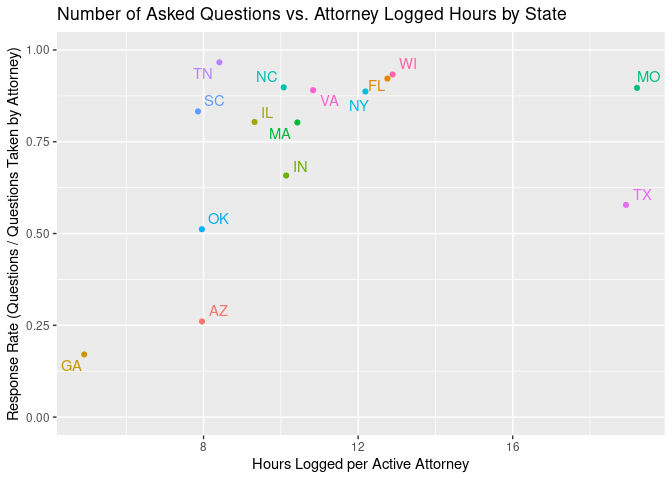
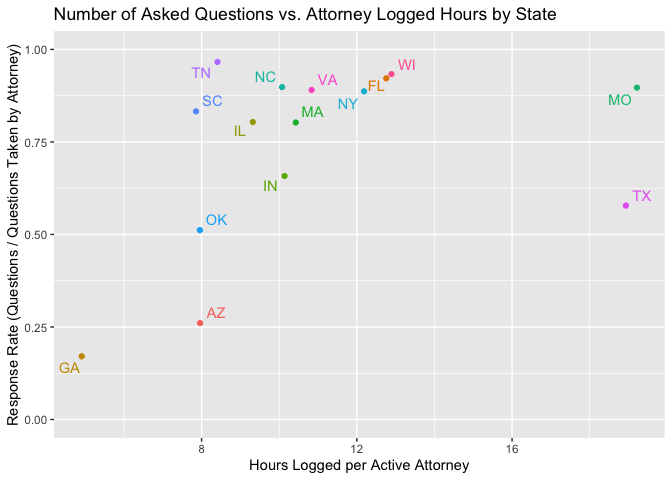
add knitted report

diff --git a/Report.md b/Report.md
@@ -1,31 +1,39 @@
 Disparities in Response Rates: An Investigation
 ================
 Brooke Moss, Lily Jiang, Anna Letcher Hartman, Bethany Costello
-2023-05-01
+2023-05-07
 
-- <a href="#background" id="toc-background">Background</a>
-  - <a href="#the-dataset" id="toc-the-dataset">The Dataset</a>
-  - <a href="#methodology" id="toc-methodology">Methodology</a>
-  - <a href="#our-question" id="toc-our-question">Our Question</a>
-- <a href="#investigation" id="toc-investigation">Investigation</a>
-  - <a href="#questions-v-attorneys-and-hours"
-    id="toc-questions-v-attorneys-and-hours">Questions v. Attorneys and
-    Hours</a>
-  - <a href="#outside-factors" id="toc-outside-factors">Outside Factors</a>
-  - <a href="#web-accessibility" id="toc-web-accessibility">Web
-    Accessibility</a>
-- <a href="#recommendations" id="toc-recommendations">Recommendations</a>
-- <a href="#references" id="toc-references">References</a>
+- [Background](#background)
+  - [The Dataset](#the-dataset)
+  - [Methodology](#methodology)
+  - [Our Question](#our-question)
+- [Investigation](#investigation)
+  - [Questions v. Attorneys and Hours](#questions-v-attorneys-and-hours)
+  - [Outside Factors](#outside-factors)
+  - [Web Accessibility](#web-accessibility)
+- [Recommendations](#recommendations)
+- [References](#references)
 
 ## Background
 
 ### The Dataset
 
 During DataFest 2023, we were given datasets representing the American
-Bar Association’s Free Legal Answer Program (ABA FLA).
+Bar Association’s Free Legal Answers program (ABA FLA). The Free Legal
+Answers program is an online platform where the ABA provides pro bono
+(free of charge) legal services to most US states. Qualifying people
+(based on income thresholds) can submit questions to be researched and
+answered by volunteer lawyers \[DataFest Challenge Description\].
 
-<!--# Add additional dataset background -->
-<!--# Add discussion of dataset trust -->
+The data we received represents a full history of the program from
+August 2016 to January 2022, including client information, attorney
+information, correspondence details, and conversation text. The dataset
+appears to be completely comprehensive as it contains all questions
+asked through the online FLA program. However, because some of the
+variables (such as the hours logged by each attorney) are reliant on
+self-reporting measures, parts of the dataset are not particularly
+trustworthy. These variables contain variation that is impossible to
+account for.
 
 ### Methodology
 
@@ -35,27 +43,87 @@ users can submit legal questions, which are then “accepted” by an
 attorney. The attorney researches the question and communicates back and
 forth with the user to answer.
 
-We determined that if an attorney “accepted” a question, taking it into
-their purview, we would count that as a question that has been responded
+We determined that if an attorney “accepted” a question (taking it into
+their purview) we would count that as a question that has been responded
 to. However, if no attorney accepted the question, we would count that
 as a non-response.
 
 In order to count responses, we used the `TakenByAttorneyUno` variable
 from the `questions.csv` dataset. This variable represents the unique
-identifier of the attorney that accepted the question. If the column
-value was `NULL`, we counted that as a non-response. This is surely an
-under-counting of questions that were unresolved, as this column
-indicates whether or not an attorney responded to the original question.
-This fails to account for non-response cases in which a conversation
-occurs between client and attorney before an attorney stops responding
-or questions left unresolved.
-
-<!--# Add more discussion of potential causes of uncertainty in the data and our calculations -->
+identifier of the attorney that accepted the question. If no attorney
+accepted it, then the column value was `NULL` and we counted it as a
+non-response. This is surely an under-counting of questions that were
+unresolved, as this column only indicates whether or not an attorney
+responded to the original question. This fails to account for
+non-response cases in which a conversation occurs between client and
+attorney before an attorney stops responding or questions left
+unresolved.
 
 ### Our Question
 
-<!--# Add map plot?? -->
-<!--# Add `AskedOnUtc` plot?? -->
+``` r
+# Create a helper tibble connecting FIPS codes with counties
+states_and_fips <- fips_codes %>%
+  mutate(
+    fips = paste0(state_code, county_code)
+  ) %>%
+  select(state, county, fips) %>%
+  mutate(county = str_remove_all(county, " County"))
+
+# Count the number of questions unanswered from each county in the US
+questions_by_county <- questions %>%
+  left_join(select(clients, -Id), by = c("StateAbbr", "AskedByClientUno" = "ClientUno")) %>%
+  group_by(County, StateAbbr) %>%
+  mutate(
+    is_null = 1 * (TakenByAttorneyUno == "NULL"),
+  ) %>%
+  count(is_null) %>%
+  pivot_wider(
+    names_from = "is_null",
+    names_prefix = "null",
+    values_from = "n"
+  ) %>%
+  mutate(
+    null_percent = null1 / (null0 + null1)
+  ) %>%
+  drop_na() %>%
+  left_join(states_and_fips, by = c("County" = "county", "StateAbbr" = "state")) %>%
+  arrange(desc(null_percent)) %>%
+  drop_na()
+
+# Plot the null response rates by county for Texas and Florida
+plot_usmap(include = c("FL", "TX"), regions = "counties", data = questions_by_county, values = "null_percent", color = NA) +
+  scale_fill_continuous(
+    low = "white", high = "red", name = "Nonresponse rate", label = scales::comma
+  ) +
+  labs(title = "Nonresponse rates for Texas and Florida") +
+  theme(legend.position = "bottom")
+```
+
+![](Report_files/figure-gfm/unnamed-chunk-1-1.png)<!-- -->
+
+``` r
+questions %>% 
+  filter(
+    StateAbbr == c('TX', 'FL')
+  ) %>%
+  ggplot() +
+  geom_histogram(aes(x = AskedOnUtc, alpha = 0.2), bins = 72) +
+  geom_histogram(
+    data = . %>%
+      filter(TakenByAttorneyUno != "NULL"),
+    aes(x = AskedOnUtc, fill = StateAbbr),
+    bins = 72
+  ) +
+  facet_wrap(facets =  vars(StateAbbr)) 
+```
+
+    ## Warning: There was 1 warning in `filter()`.
+    ## ℹ In argument: `StateAbbr == c("TX", "FL")`.
+    ## Caused by warning in `StateAbbr == c("TX", "FL")`:
+    ## ! longer object length is not a multiple of shorter object length
+
+![](Report_files/figure-gfm/unnamed-chunk-2-1.png)<!-- -->
 
 When digging into response rates, we noticed a large discrepancy between
 the two states with the largest number of questions: Texas and Florida.
@@ -79,7 +147,26 @@ and Georgia.
 
 ![](Report_files/figure-gfm/hours-perattorney-1.png)<!-- -->
 
-<!--# Add plot of Questions v. # of Attorneys -->
+``` r
+df_responses %>% 
+  left_join(attorney_time_state, by = "StateAbbr") %>%
+  mutate(casePer = total_questions/num_attorney) %>% 
+  ggplot(aes(
+    x = casePer,
+    y = response_rate)
+  ) +
+  geom_point(aes(color = StateAbbr)) +
+  geom_text_repel(
+    mapping = aes(label = StateAbbr, color = StateAbbr)
+  ) +
+  ylim(0, 1) +
+  xlab("Total Number of Questions Per Active Attorney") +
+  ylab("Response Rate (Questions / Questions Taken by Attorney)") +
+  ggtitle("Response Rate vs. Number of Questions per Active Attorney by State") +
+  theme(legend.position="none")
+```
+
+![](Report_files/figure-gfm/unnamed-chunk-3-1.png)<!-- -->
 
 To answer this, we calculated the number of unique attorneys per state
 that logged any time on the website within our 2 year time scale. We
